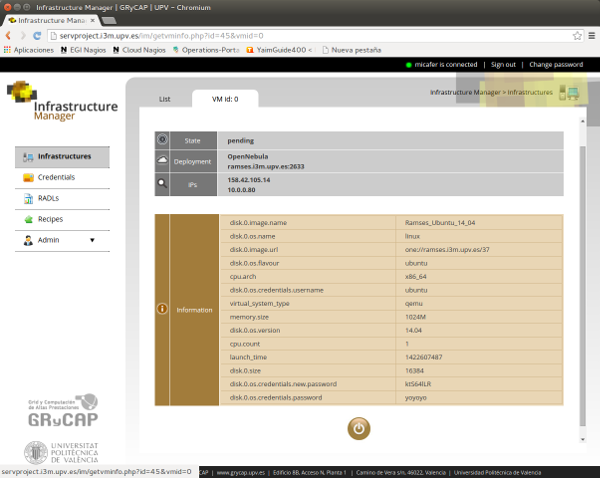
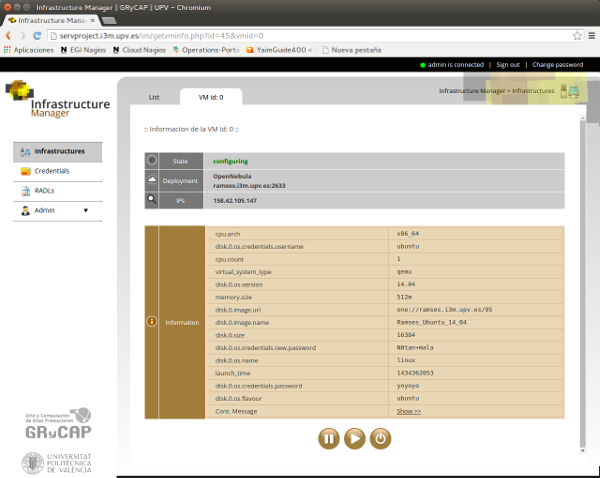
Add the startvm and stopvm operations from the 1.3.0 of IM service

Changed region(s): [[0.0, 0.1172, 1.0, 0.9372], [0.0, 0.8201, 1.0, 1.0], [0.96, 0.8787, 0.99, 0.9372]]

diff --git a/operate.php b/operate.php
@@ -73,6 +73,36 @@
                 } else {
                     header('Location: error.php?msg=No id');
                 }
+            } elseif ($op == "stopvm") {
+            	if (isset($_GET['infid']) and isset($_GET['vmid'])) {
+            		$infid = $_GET['infid'];
+            		$vmid = $_GET['vmid'];
+            	
+            		$res = StopVM($im_host,$im_port,$infid, $vmid);
+            	
+            		if (strpos($res, "Error") !== false) {
+            			header('Location: error.php?msg=' . urlencode($res));
+            		} else {
+            			header('Location: getvminfo.php?id=' . $infid . '&vmid=' . $vmid);
+            		}
+            	} else {
+            		header('Location: error.php?msg=No id');
+            	}
+            } elseif ($op == "startvm") {
+            	if (isset($_GET['infid']) and isset($_GET['vmid'])) {
+            		$infid = $_GET['infid'];
+            		$vmid = $_GET['vmid'];
+            		 
+            		$res = StartVM($im_host,$im_port,$infid, $vmid);
+            		 
+            		if (strpos($res, "Error") !== false) {
+            			header('Location: error.php?msg=' . urlencode($res));
+            		} else {
+            			header('Location: getvminfo.php?id=' . $infid . '&vmid=' . $vmid);
+            		}
+            	} else {
+            		header('Location: error.php?msg=No id');
+            	}
             } elseif ($op == "addresource") {
                 $radl = $_POST['radl'];
                 
@@ -103,8 +133,9 @@
             	} else {
             		header('Location: error.php?msg=No id');
             	}
+            } else {
+            	header('Location: error.php?msg=Incorrect Operation: ' . urlencode($op));
             }
-            
             
             
         } else {

diff --git a/im.php b/im.php
@@ -226,6 +226,48 @@ function GetVMContMsg($host, $port, $inf_id, $vm_id) {
 	}
 }
 
+function StartVM($host, $port, $inf_id, $vm_id) {
+	$auth = get_auth_data();
+	$xmlrpc_client = new xmlrpc_client('/',$host,$port);
+	$xmlrpc_msg = new xmlrpcmsg('StartVM', array(new xmlrpcval((int)$inf_id, "int"), new xmlrpcval($vm_id, "string"), $auth));
+
+	$xmlrpc_resp = $xmlrpc_client->send($xmlrpc_msg);
+
+	if ($xmlrpc_resp->faultCode())
+		return 'Error: ' . $xmlrpc_resp->faultString();
+	else
+		$res = php_xmlrpc_decode($xmlrpc_resp->value());
+	$success = $res[0];
+	$info = $res[1];
+
+	if ($success) {
+		return $info;
+	} else {
+		return 'Error';
+	}
+}
+
+function StopVM($host, $port, $inf_id, $vm_id) {
+	$auth = get_auth_data();
+	$xmlrpc_client = new xmlrpc_client('/',$host,$port);
+	$xmlrpc_msg = new xmlrpcmsg('StopVM', array(new xmlrpcval((int)$inf_id, "int"), new xmlrpcval($vm_id, "string"), $auth));
+
+	$xmlrpc_resp = $xmlrpc_client->send($xmlrpc_msg);
+
+	if ($xmlrpc_resp->faultCode())
+		return 'Error: ' . $xmlrpc_resp->faultString();
+	else
+		$res = php_xmlrpc_decode($xmlrpc_resp->value());
+	$success = $res[0];
+	$info = $res[1];
+
+	if ($success) {
+		return $info;
+	} else {
+		return 'Error';
+	}
+}
+
 function AddResource($host, $port, $inf_id, $radl) {
     $auth = get_auth_data();
     $xmlrpc_client = new xmlrpc_client('/',$host,$port);

diff --git a/getvminfo.php b/getvminfo.php
@@ -156,13 +156,15 @@
 
 
 
-<table style="width:20px;">
-            <tbody>
+<table style="width:165px;">
+	<tbody>
 		<tr>
-                <td style="text-align:center;"><a href="#" onclick="javascript:confirm_delete('operate.php?op=destroyvm&infid=<?php echo $id;?>&vmid=<?php echo $vmid;?>', '<?php echo $vmid;?>')"><img style="border:0px;" src="images/icon_terminateVM.jpg" border="0" alt="Terminate VM" title="Terminate VM"></a></td>
-             </tr>
-   </tbody>
-        </table>
+			<td style="text-align:center;"><a href="operate.php?op=stopvm&infid=<?php echo $id;?>&vmid=<?php echo $vmid;?>"><img style="border:0px;" src="images/icon_stopVM.jpg" border="0" alt="Stop VM" title="Stop VM"></a></td>
+			<td style="text-align:center;"><a href="operate.php?op=startvm&infid=<?php echo $id;?>&vmid=<?php echo $vmid;?>"><img style="border:0px;" src="images/icon_startVM.jpg" border="0" alt="Start VM" title="Start VM"></a></td>
+			<td style="text-align:center;"><a href="#" onclick="javascript:confirm_delete('operate.php?op=destroyvm&infid=<?php echo $id;?>&vmid=<?php echo $vmid;?>', '<?php echo $vmid;?>')"><img style="border:0px;" src="images/icon_terminateVM.jpg" border="0" alt="Terminate VM" title="Terminate VM"></a></td>
+		</tr>
+	</tbody>
+</table>
 
 
 

diff --git a/list.php b/list.php
@@ -157,10 +157,11 @@ Refresh <a href="#" onclick="javascript:location.reload();"><img src="images/rel
                     if (is_string($vm_list)) {
 						$vm_list = array("N/A");
 					} else {
-                    	$state = GetVMProperty($im_host,$im_port,$inf, $vm_list[count($vm_list)-1], "state");
-                    	if (is_string($state) && strpos($state, "Error")) {
-							$status = "N/A";
-						} else {
+						if (count($vm_list) > 0) {
+                    		$state = GetVMProperty($im_host,$im_port,$inf, $vm_list[count($vm_list)-1], "state");
+						} 
+						$status = "N/A";
+                    	if (!(is_string($state) && strpos($state, "Error"))) {
 							$status = formatState($state);
 						}
                     }

diff --git a/doc/source/web.rst b/doc/source/web.rst
@@ -138,7 +138,9 @@ In the VM information page (:ref:`Fig. 8 <figure_vm_info>`) the user can see all
 In the top of the page the state, the cloud provider where it is deployed and the available IPs are shown.
 The rest of RADL fields are shown below. In this section the user can look up for the credentials needed to access the VM
 (username, password or private_key). In case of the private_key a "download" button will appear enabling the user to
-download the key to a file to acccess the node.
+download the key to a file to acccess the node. The contextualizacion message of this VM will be show if the user press
+the message "Show >>" of the row "Cont. Message". The user can also stop, start and destroy the VM using the buttons 
+located at the bottom of the page. 
 
 .. _figure_vm_info: 
 .. figure:: images/vm_info.png
